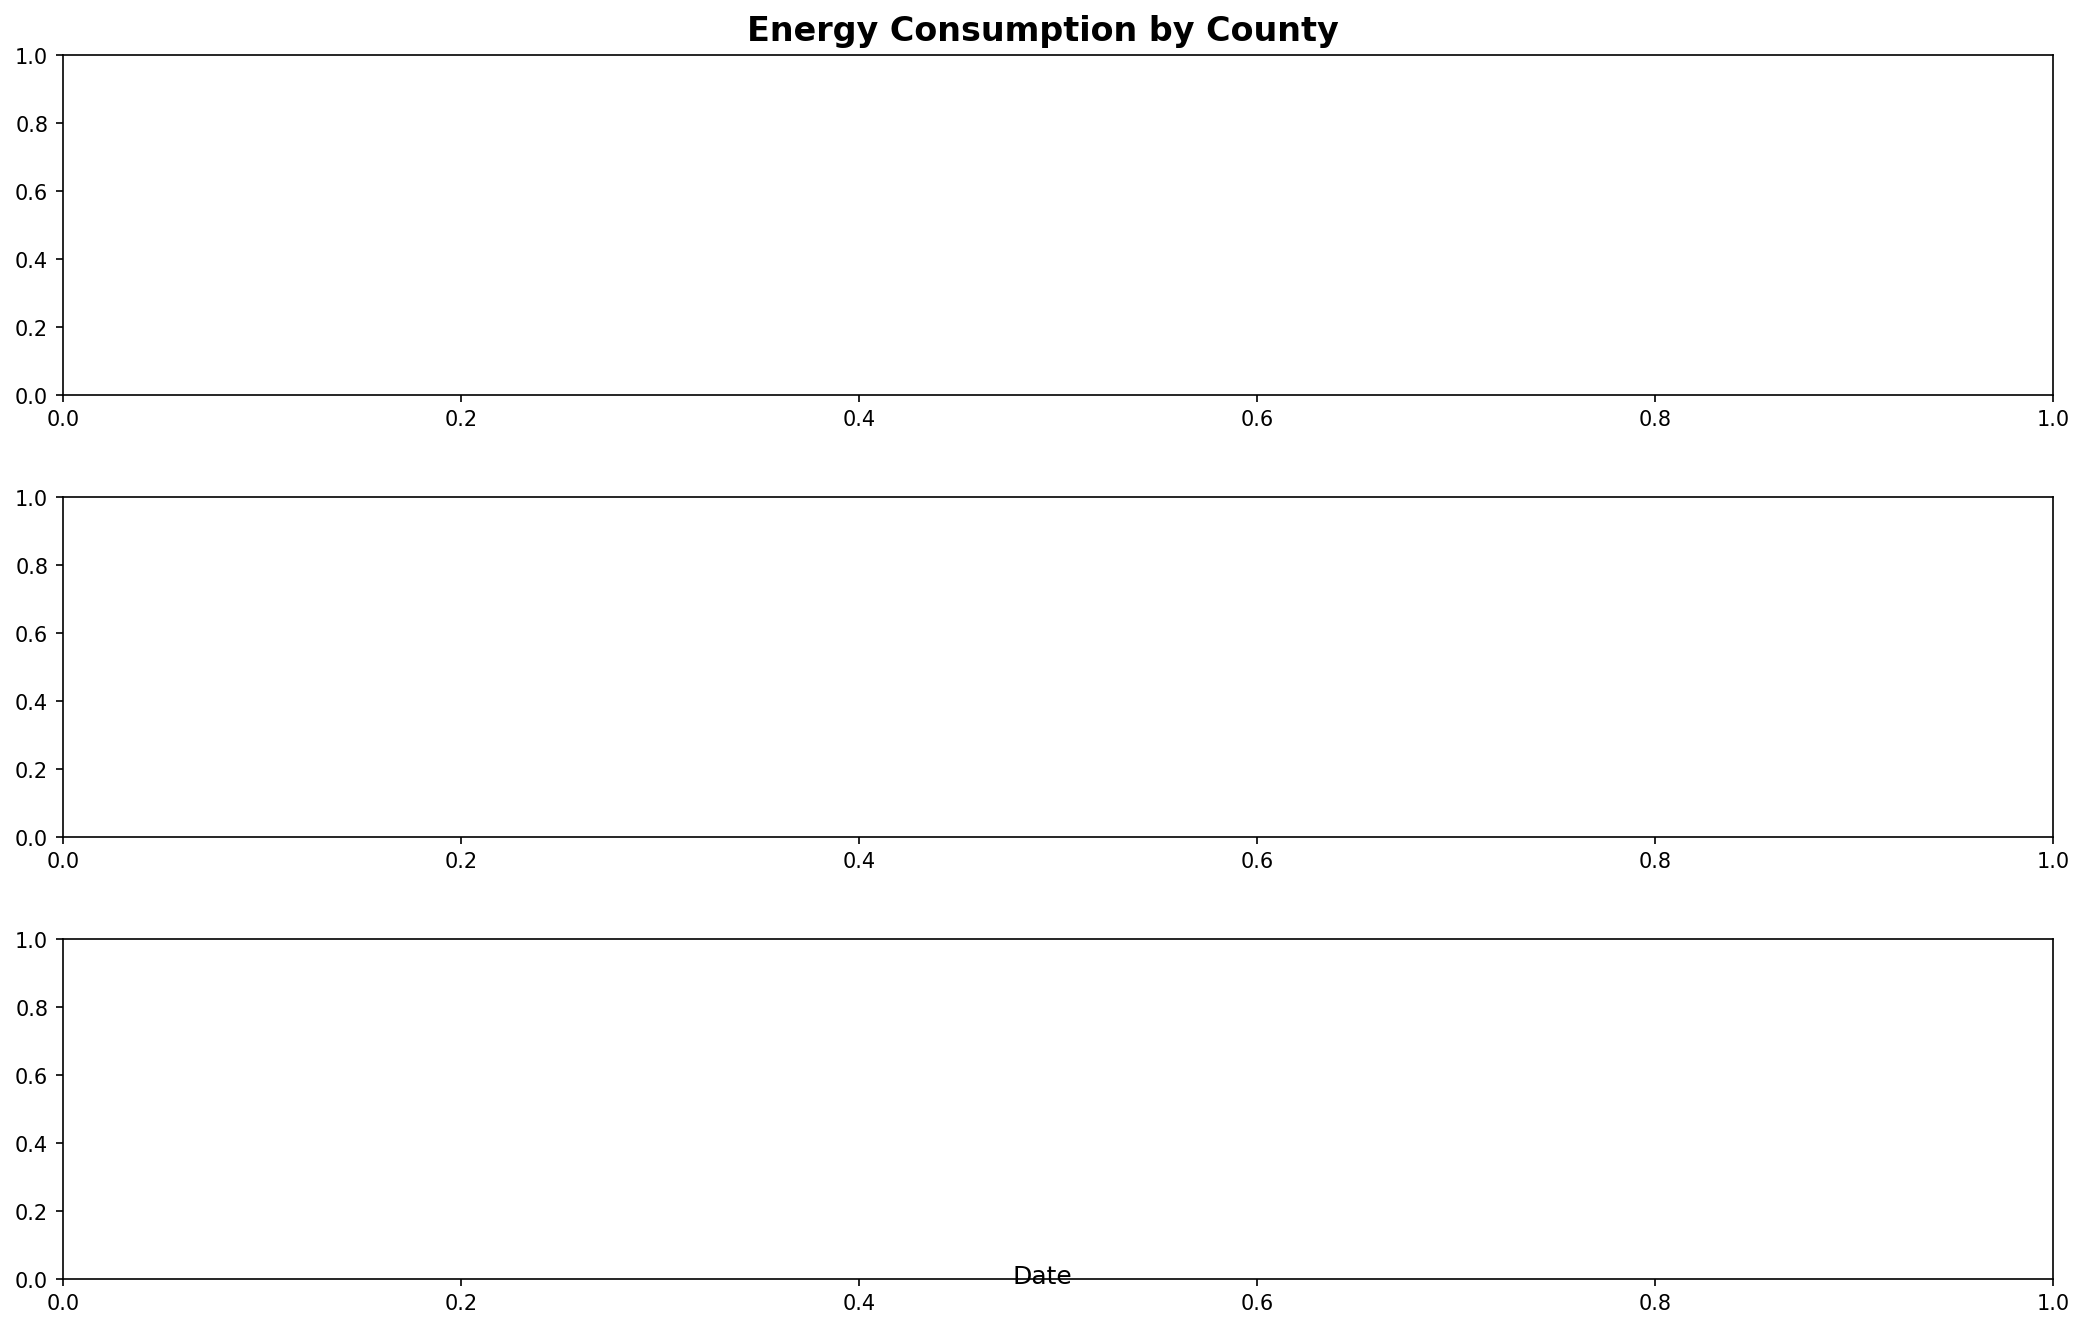
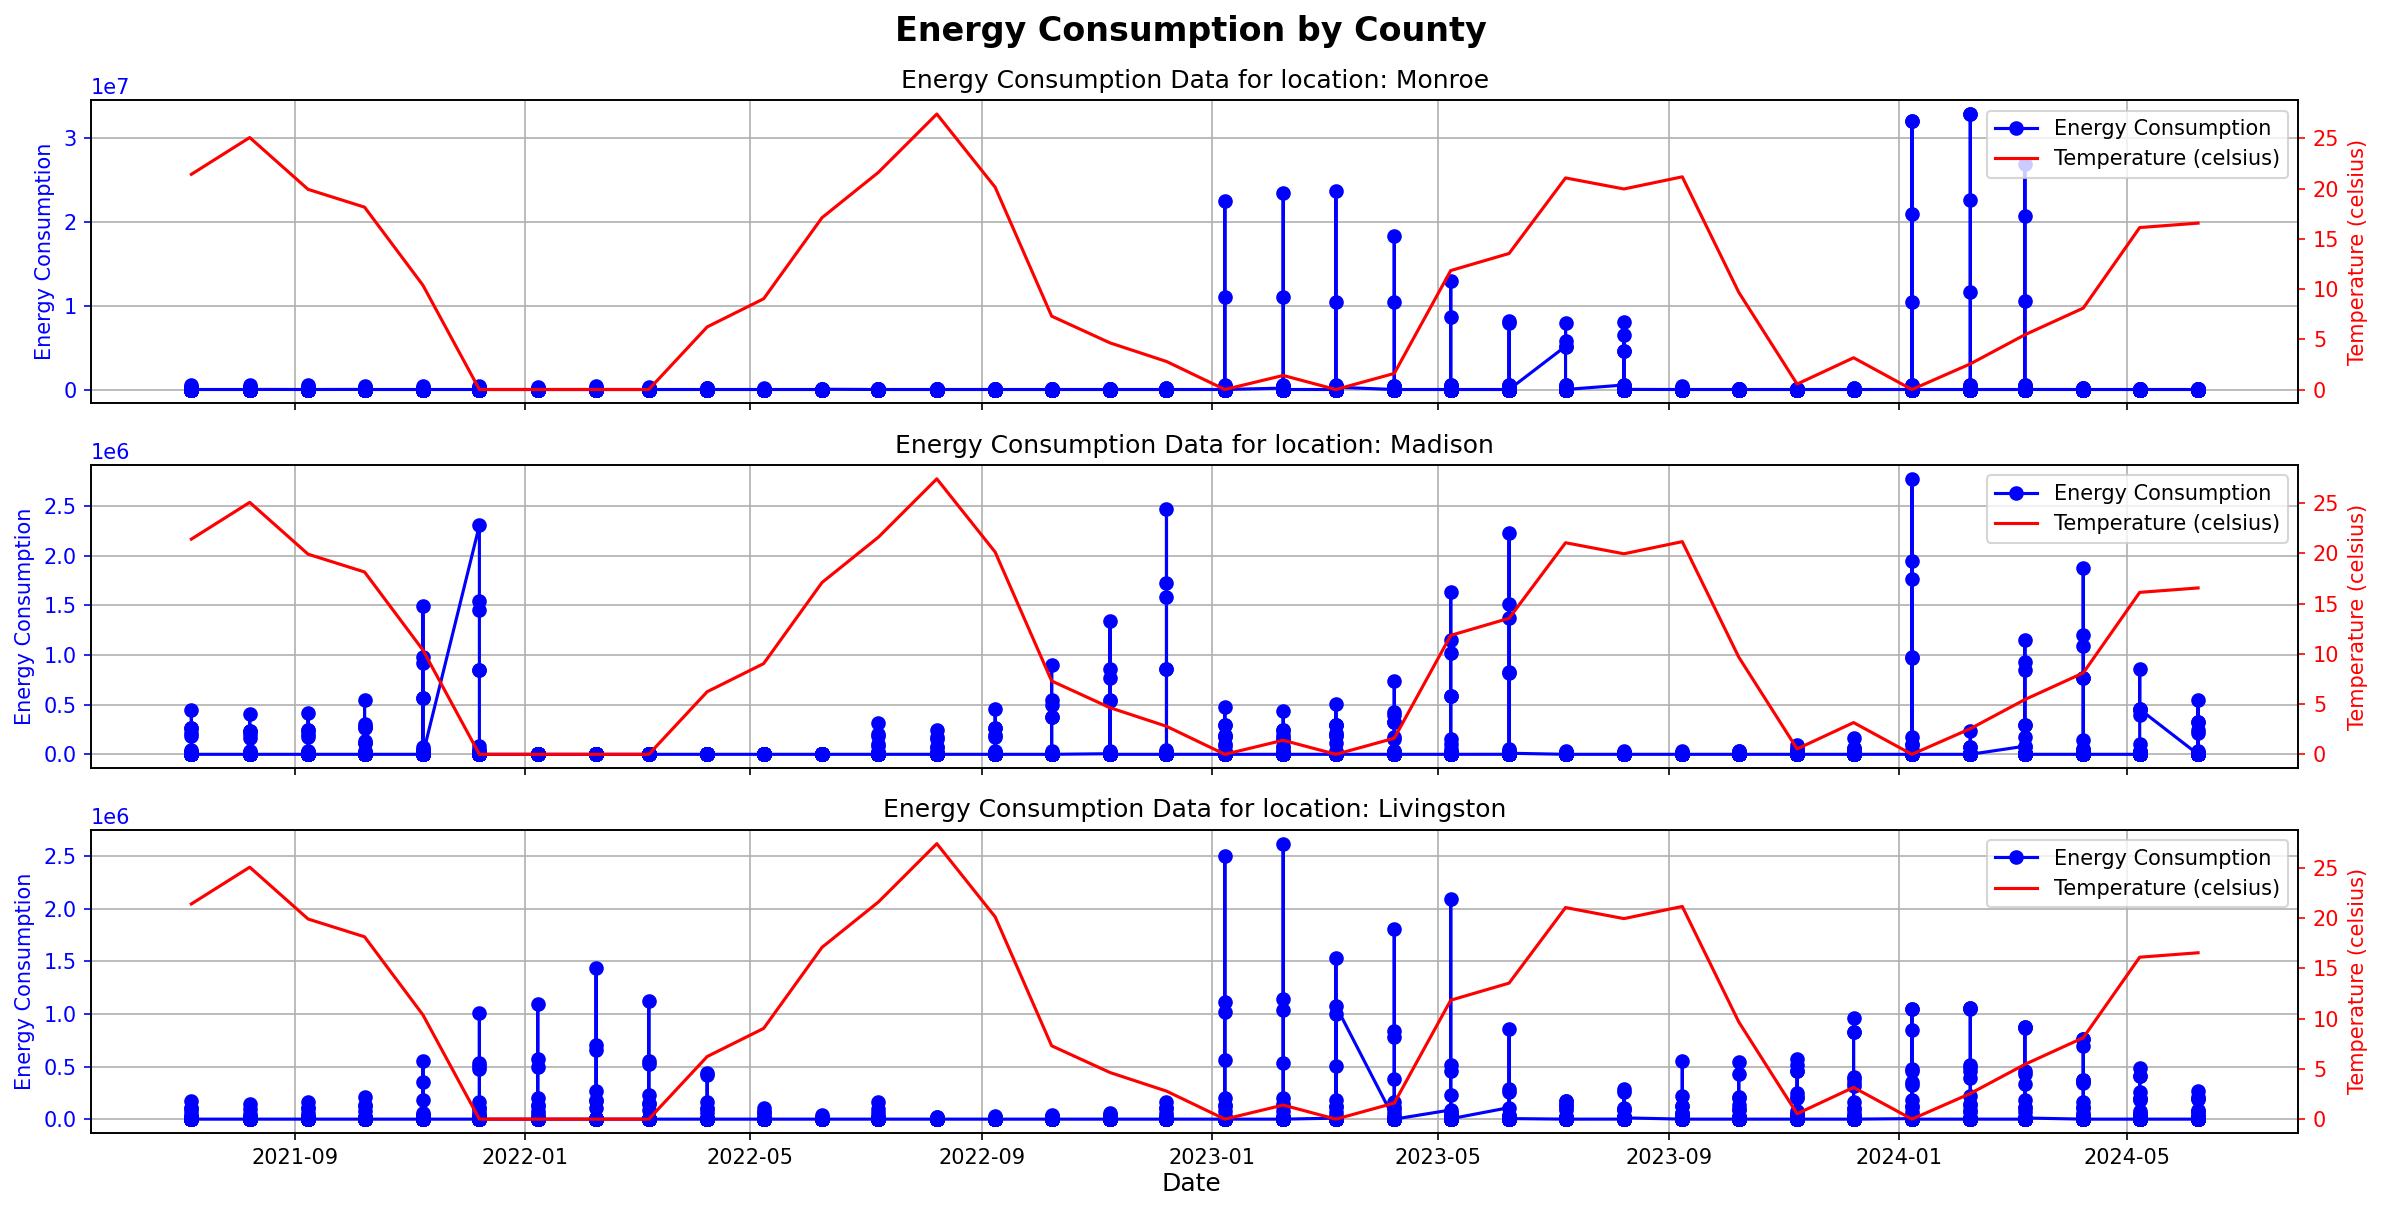
Plotting energy and weather data done for a subset of the fips codes.  Next, I need to plot the energy and humidity, windspeed data

diff --git a/oracle/oracle.py b/oracle/oracle.py
@@ -50,118 +50,101 @@ def merge_energy_weather_location(energy_df, weather_df):
 
 def plot_energy_by_location(merged_df):
     """
-    Visualization of energy consumption by location with weather overlay.
+    Visualization of energy, weather, and location (filtered by FIPS codes)
+    ------------------------------------------------------------------
+    INPUT:
+
+    OUTPUT:
     """
-    # Diagnostic
-    print("\n=== Plot Diagnostics ===")
-    print(f"DataFrame shape: {merged_df.shape}")
-
-    # Force matplotlib to use a specific backend that works well on macOS
-    matplotlib.use('MacOSX')  # Try this backend specifically for Mac
-
     # Get unique locations
     locations = merged_df["county_name"].unique()
-    print(f"Found {len(locations)} unique locations: {locations}")
 
-    # Create a simple test plot first to verify plotting works
-    plt.figure(figsize=(8, 6))
-    plt.plot([1, 2, 3, 4], [1, 4, 9, 16], 'ro-')
-    plt.title("Test Plot")
-    plt.grid(True)
-    plt.savefig("test_plot.png")
-    plt.close()  # Close this figure before creating the main one
-    print("Created test plot - check test_plot.png exists")
+    # Create new figure for the main plot
+    fig, axs = plt.subplots(
+        len(locations), 
+        1, 
+        figsize=(16, 3*len(locations)-1), sharex=True)
 
-    # Create a new figure for the main plot
-    fig, axes = plt.subplots(len(locations), 1, figsize=(14, 3*len(locations)))
-    breakpoint()
-
-    # Make sure axes is always a list
+    # Ensure axs is always a list
     if len(locations) == 1:
-        axes = [axes]
+        axs = [axs]
 
-    # Loop through each location
+    # Iterate thru each location
     for i, location in enumerate(locations):
-        # Create a copy to avoid the SettingWithCopyWarning
+        # Create a copy to avoid SettingWithCopyWarning
         location_data = merged_df[merged_df["county_name"] == location].copy()
-
-        # Print diagnostic info
-        print(f"\nLocation: {location}")
+        
+        # Print Diagnostic information
+        print(f"\Location: {location}")
         print(f"Records: {len(location_data)}")
 
-        # Skip if no datlight   if location_data.empty:
-        print(f"Warning: No data for location {location}")
-        continue
-
-        # Sort by date WITHOUT using inplace
-        location_data = location_data.sort_values(by="date")
-
-        # Verify value column exists
-        if "value" not in location_data.columns:
-            print(f"Error: No 'value' column for {location}. Available columns:")
-            print(location_data.columns.tolist())
+        if location_data.empty:
+            print(f"There's' nothing in this bitch!")
             continue
 
-        # Print data range
-        print(f"Date range: {location_data['date'].min()} to {location_data['date'].max()}")
-        print(f"Value range: {location_data['value'].min()} to {location_data['value'].max()}")
+        # Sort the values for time series
+        location_data = location_data.sort_values(by="date")
 
-        # Plot the data
+        # Verify value in column for existence
+        if "value" not in location_data.columns:
+            print(f"Error: No 'value' column for the location: {location}")
+            continue
+
+        # Plot data
         try:
             # Use explicit x and y data
-            x_data = location_data['date'].tolist()
-            y_data = location_data['value'].tolist()
+            x_data = location_data["date"].tolist()
+            y_data = location_data["value"].tolist()
+            # Convert to numpy arrays
+            x, y = np.array(x_data), np.array(y_data)
 
-            print(f"Plotting {len(x_data)} points for {location}")
+            # Plot energy consumption data
+            axs[i].plot(x, y, "-b", marker="o", linewidth=1.5, label="Energy Consumption")
+            axs[i].set_ylabel("Energy Consumption", color="b")
+            axs[i].tick_params(axis="y", colors="b")
+            axs[i].set_title(f"Energy Consumption Data for location: {location}")
+            axs[i].grid(True)
 
-            # Create the actual plot
-            axes[i].plot(x_data, y_data, 'o-', color='blue', markersize=4, label="Energy Consumption")
-
-            # Add temperature if available
+            # Add temperature info if available
             if "temp (°C)" in location_data.columns:
                 temp_data = location_data["temp (°C)"].tolist()
-                ax2 = axes[i].twinx()
-                ax2.plot(x_data, temp_data, "-r", linewidth=1.5, label="Temperature (°C)")
-                ax2.set_ylabel("Temperature (°C)", color="r")
+                temp = np.array(temp_data)
+                # Creates twin axis sharing thje x-axis
+                ax2 = axs[i].twinx()
+                ax2.plot(x, temp, "-r", linewidth=1.5, label="Temperature (celsius)")
+                ax2.set_ylabel("Temperature (celsius)", color="r")
                 ax2.tick_params(axis="y", colors="r")
 
                 # Add combined legend
-                lines1, labels1 = axes[i].get_legend_handles_labels()
+                lines1, labels1 = axs[i].get_legend_handles_labels()
                 lines2, labels2 = ax2.get_legend_handles_labels()
-                ax2.legend(lines1 + lines2, labels1 + labels2, loc="upper right")
+                ax2.legend(lines1 + lines2, labels1+labels2, loc="upper right")
+
             else:
-                axes[i].legend(loc="upper left")
-
-            # Set titles and labels
-            axes[i].set_title(f"Energy Consumption for {location}")
-            axes[i].set_ylabel("Energy Consumption")
-            axes[i].grid(True, alpha=0.3)
-
-            # Format x-axis date ticks
-            axes[i].tick_params(axis='x', rotation=45)
+                axs[i].set_title(f"Energy Consumption for {location}")
+                axs[i].set_ylabel("Energy Consumption")
+                axs[i].grid(True)
+                # Formatting ticks
+                axs[i].tick_params(axis="x", rotation=45)
 
         except Exception as e:
-            print(f"Error plotting data for {location}: {str(e)}")
-            traceback.print_exc()
+            print(f"Error plotting data for location :{location} {str(e)}")
+            traceback.print_exec()
 
     # Add an overall x-axis label
-    fig.text(0.5, 0.04, "Date", ha='center', fontsize=12)
-
+    fig.text(0.5, 0.0, "Date", ha="center", fontsize=12)
     # Add overall title
-    fig.suptitle("Energy Consumption by County", fontsize=16, fontweight='bold')
-
+    fig.suptitle("Energy Consumption by County", fontsize=16, fontweight="bold")
     # Adjust layout
     plt.tight_layout()
-    plt.subplots_adjust(top=0.95, hspace=0.3)
+#    plt.subplots_adjust(top=0.95, hspace=0.3)
 
-    # Save the figure
+    # Save figure
     print("Saving figure to energy_consumption_plot.png")
     plt.savefig("energy_consumption_plot.png", dpi=150, bbox_inches="tight")
-
-    # Show the plot
-    print("Displaying plot...")
+    
+    # Show plot
     plt.show()
-    print("Plot display completed")
 
 def merge_weather_dataframes(dfs):
     """
@@ -569,37 +552,24 @@ def main():
     datetime_df = datetime_conversion(filtered_df)
 
     # Data preprocessing ( ͡° ͜ʖ ͡°)╭∩╮
+    print("Cleaned Energy data:")
     cleaned_energy_df = preprocess_data(datetime_df)
+    print("Cleaned Weather data:")
     cleaned_weather_df = preprocess_data(weather_df)
 
     # Merge dataframes, preserving location info
     merged_df = merge_energy_weather_location(cleaned_energy_df,
                                               cleaned_weather_df)
-
     # Plot energy by location with weather overlay
-    plot_energy_by_location(merged_df)
-
+#    plot_energy_by_location(merged_df)
+    breakpoint()
     # Additional analysis as needed
     print("\nLocation-based statistics: ")
     location_stats = merged_df.groupby("county_name")["value"].agg(['mean', 'std', 'min', 'max'])
     print(location_stats)
 
     # Save the merged dataset if needed
-#    merged_df.to_csv("energy_weather_location_data.csv", index=False)
-    
-    # Inspect post-cleaning dataframes if wanted
-#    print("\n\nPost-cleaning insepction of dataframes\n\n")
-#    print(cleaned_energy_df.describe())
-#    print(cleaned_energy_df.head())
-#    print(cleaned_energy_df.info())
-#    # Basic visualization for insights
-#    plt.figure(figsize=(14, 6))
-#    plt.plot(cleaned_energy_df["date"], cleaned_energy_df["value"], marker="o")
-#    plt.title("Energy Consumption After Cleaning")
-#    plt.xlabel("Date")
-#    plt.ylabel("Energy Consumption")
-#    plt.grid(True)
-#    plt.show()
+    merged_df.to_csv("energy_weather_location_data.csv", index=False)
     
     # Summary with the top 10 
 #    summary = dc.column_summary(10)
